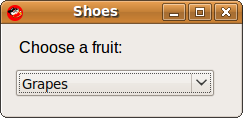
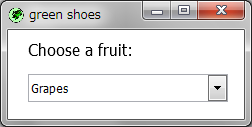
Reviewed built-in manual page 24, 25 and 27: EditBox, EditLine, ListBox. Added Native class. Added some methods and refactored a little to edit_box, edit_line, list_box and button.
Changed the following specs.
- default height size
- the block is given self which has changed or clicked

diff --git a/lib/shoes/app.rb b/lib/shoes/app.rb
@@ -159,61 +159,68 @@ class Shoes
       Gtk::Image.new(name).size_request
     end
 
-    def button name, args={}, &blk
+    def button name, args={}
       args = basic_attributes args
       b = Gtk::Button.new name
       b.set_size_request args[:width], args[:height] if args[:width] > 0 and args[:height] > 0
-      b.signal_connect "clicked", &blk if blk
+      b.signal_connect "clicked" do
+        yield @_b
+      end if block_given?
       @canvas.put b, args[:left], args[:top]
       b.show_now
       args[:real], args[:text], args[:app] = b, name, self
-      Button.new args
+      @_b = Button.new args
     end
 
-    def check args={}, &blk
+    def check args={}
       args = basic_attributes args
       cb = Gtk::CheckButton.new
       cb.active = true if args[:checked]
-      cb.signal_connect "clicked", &blk if blk
+      cb.signal_connect "clicked" do
+        yield @_cb
+      end if block_given?
       @canvas.put cb, args[:left], args[:top]
       cb.show_now
       args[:real], args[:app] = cb, self
-      Check.new args
+      @_cb = Check.new args
     end
     
-    def radio *attrs, &blk
+    def radio *attrs
       args = attrs.last.class == Hash ? attrs.pop : {}
       group = attrs.first unless attrs.empty?
       group = group ? (@radio_groups[group] ||= Gtk::RadioButton.new) : cslot.radio_group
       args = basic_attributes args
       rb = Gtk::RadioButton.new group
       rb.active = true if args[:checked]
-      rb.signal_connect "clicked", &blk if blk
+      rb.signal_connect "clicked" do
+        yield @_rb
+      end if block_given?
       @canvas.put rb, args[:left], args[:top]
       rb.show_now
       args[:real], args[:app] = rb, self
-      Radio.new args
+      @_rb = Radio.new args
     end
 
     def edit_line args={}
       args = basic_attributes args
       args[:width] = 200 if args[:width].zero?
+      args[:height] = 28 if args[:height].zero?
       el = Gtk::Entry.new
       el.text = args[:text].to_s
-      el.width_chars = args[:width] / 6
+      el.set_size_request args[:width], args[:height]
       el.signal_connect "changed" do
-        yield el
+        yield @_el
       end if block_given?
       @canvas.put el, args[:left], args[:top]
       el.show_now
       args[:real], args[:app] = el, self
-      EditLine.new args
+      @_el = EditLine.new args
     end
 
     def edit_box args={}
       args = basic_attributes args
       args[:width] = 200 if args[:width].zero?
-      args[:height] = 200 if args[:height].zero?
+      args[:height] = 108 if args[:height].zero?
       tv = Gtk::TextView.new
       tv.wrap_mode = Gtk::TextTag::WRAP_WORD
       tv.buffer.text = args[:text].to_s
@@ -225,29 +232,31 @@ class Shoes
       eb.add tv
 
       tv.buffer.signal_connect "changed" do
-        yield tv.buffer
+        yield @_eb
       end if block_given?
 
       @canvas.put eb, args[:left], args[:top]
       eb.show_now
       args[:real], args[:app], args[:textview] = eb, self, tv
-      EditBox.new args
+      @_eb = EditBox.new args
     end
     
-    def list_box args={}, &blk
+    def list_box args={}
       args = basic_attributes args
       args[:width] = 200 if args[:width].zero?
+      args[:height] = 28 if args[:height].zero?
       cb = Gtk::ComboBox.new
       args[:items] ||= []
       args[:items].each{|item| cb.append_text item.to_s}
+      cb.set_size_request args[:width], args[:height]
       cb.active = args[:items].index(args[:choose]) if args[:choose]
       cb.signal_connect("changed") do
-        blk.call args[:items][cb.active]
-      end if blk
+        yield @_lb
+      end if block_given?
       @canvas.put cb, args[:left], args[:top]
       cb.show_now
       args[:real], args[:app] = cb, self
-      ListBox.new args
+      @_lb = ListBox.new args
     end
 
     def animate n=10, repaint=true, &blk

diff --git a/lib/shoes/basic.rb b/lib/shoes/basic.rb
@@ -126,22 +126,6 @@ class Shoes
   end
 
   class Image < Basic; end
-  class Button < Basic
-    def click &blk
-      real.signal_connect "clicked", &proc{parent.append{blk[self]}} if blk
-    end
-  end
-  class ToggleButton < Button
-    def checked?
-      real.active?
-    end
-    
-    def checked=(tof)
-      real.active = tof
-    end
-  end
-  class Check < ToggleButton; end
-  class Radio < ToggleButton; end
 
   class Pattern < Basic
     def move2 x, y
@@ -203,7 +187,29 @@ class Shoes
   class Para < TextBlock; end
   class Inscription < TextBlock; end
 
-  class EditLine < Basic
+  class Native < Basic
+    def change obj, &blk
+      obj.signal_connect "changed", &proc{parent.append{blk[self]}} if blk
+    end
+  end
+  class Button < Native
+    def click &blk
+      real.signal_connect "clicked", &proc{parent.append{blk[self]}} if blk
+    end
+  end
+  class ToggleButton < Button
+    def checked?
+      real.active?
+    end
+    
+    def checked=(tof)
+      real.active = tof
+    end
+  end
+  class Check < ToggleButton; end
+  class Radio < ToggleButton; end
+
+  class EditLine < Native
     def text
       @real.text
     end
@@ -216,9 +222,13 @@ class Shoes
       @app.canvas.move @real, x, y
       move3 x, y
     end
+
+    def change &blk
+      super @real, &blk
+    end
   end
 
-  class EditBox < Basic
+  class EditBox < Native
     def text
       @textview.buffer.text
     end
@@ -231,15 +241,32 @@ class Shoes
       @app.canvas.move @real, x, y
       move3 x, y
     end
+
+    def change &blk
+      super @textview.buffer, &blk
+    end
   end
   
-  class ListBox < Basic
+  class ListBox < Native
     def text
       @items[@real.active]
     end
+
+    def choose item
+      @real.active = @items.index item
+    end
+
+    def change &blk
+      super @real, &blk
+    end
+
+    def items= items
+      @items = items
+      items.each{|item| real.append_text item.to_s}
+    end
   end
 
-  class Progress < Basic
+  class Progress < Native
     def fraction
       real.fraction
     end

diff --git a/lib/shoes/style.rb b/lib/shoes/style.rb
@@ -71,11 +71,9 @@ class Shoes
       args[:width] ||= @width
       args[:height] ||= @height
       case self
-        when Button, EditBox, ListBox
+        when Button, EditBox, EditLine, ListBox
           real.set_size_request args[:width], args[:height]
           @height = args[:height]
-        when EditLine
-          real.width_chars = args[:width] / 6
         when Progress
           real.text = ' ' * (args[:width] / 4 - 2)
         else

diff --git a/samples/sample29.rb b/samples/sample29.rb
@@ -1,9 +1,9 @@
 require '../lib/green_shoes'
 
 Shoes.app do
-  lb = list_box items: COLORS.keys.map(&:to_s), choose: 'red' do |item|
-    @o.style fill: eval(item)
-    @p.text = item
+  lb = list_box items: COLORS.keys.map(&:to_s), choose: 'red' do |s|
+    @o.style fill: eval(s.text)
+    @p.text = s.text
   end.move(300, 0)
   @p = para
   nostroke
